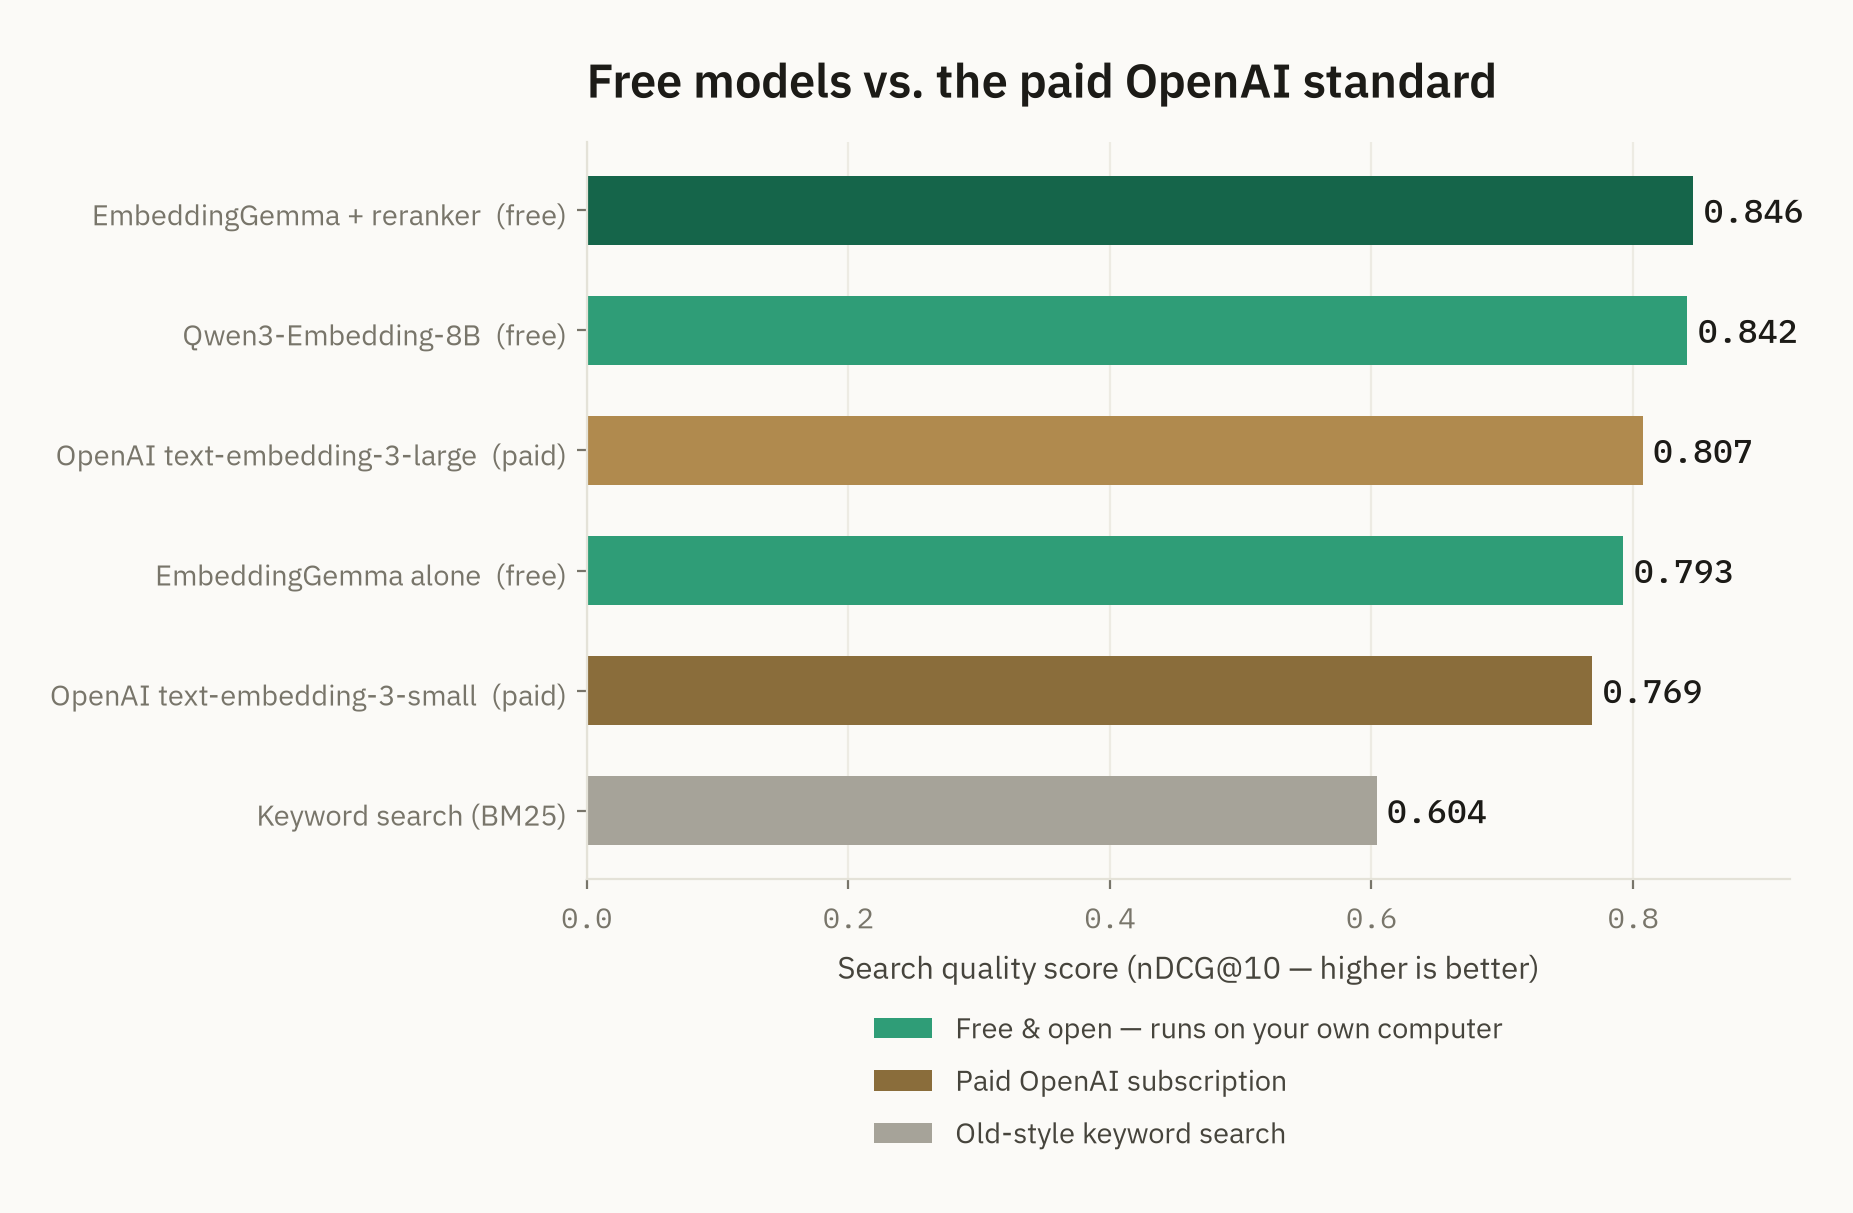
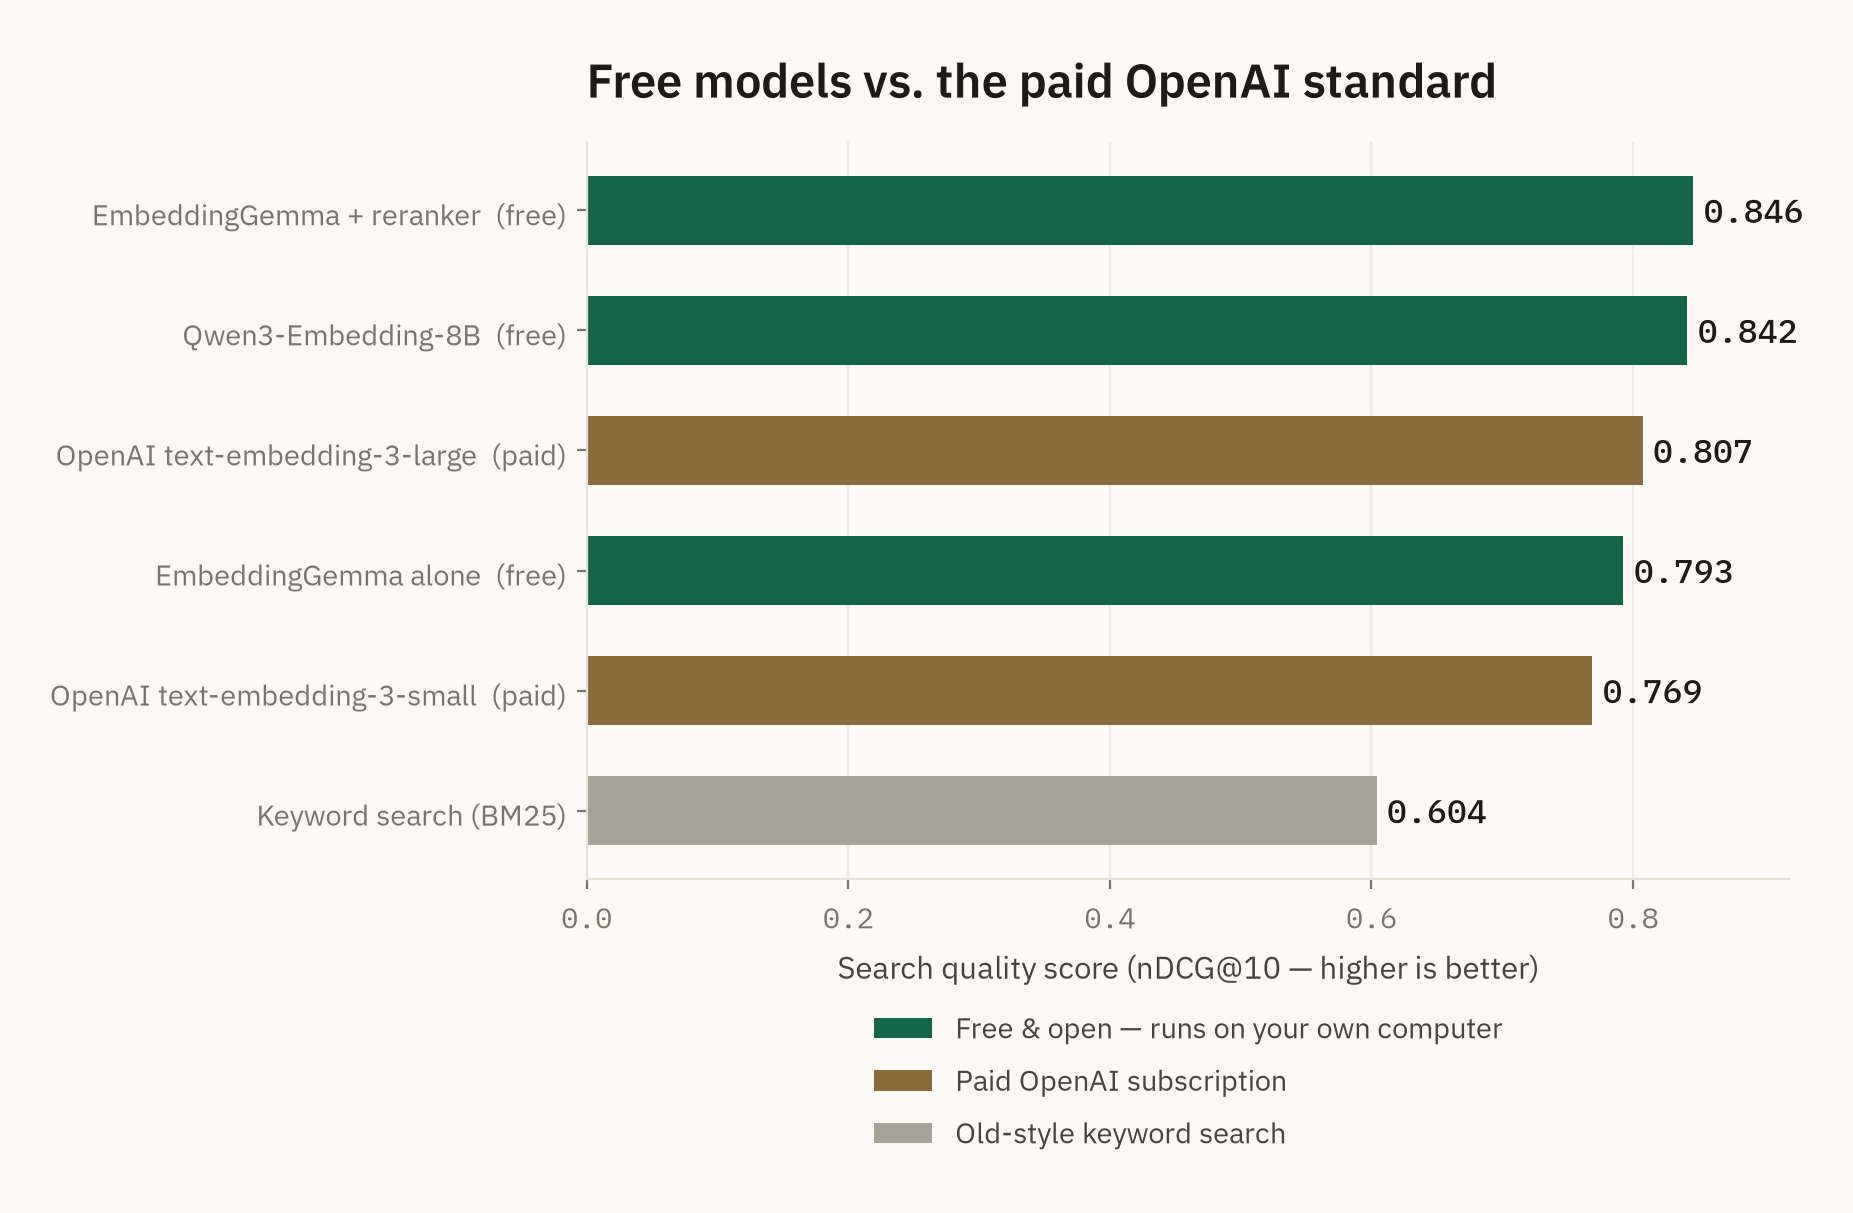
Flatten all charts to single solid colors per category; drop stale amber reference from reranker chart title/alt-text

Changed region(s): [[0.3076, 0.3355, 0.8921, 0.5185], [0.3076, 0.244, 0.9228, 0.305], [0.4614, 0.8236, 0.5229, 0.8541]]

diff --git a/index.html b/index.html
@@ -224,7 +224,7 @@
       <div style="margin-top:56px; display:grid; grid-template-columns:1fr 1fr; gap:24px;">
         <div>
           <div style="background:#FBFAF7; border-radius:10px; padding:16px 18px 6px; box-shadow:0 1px 2px rgba(0,0,0,0.2);">
-            <img src="assets/reranker-effect.png" alt="Dumbbell chart showing each embedding model's search quality alone versus with its best reranker. Weak free models like MiniLM-L6 and MPNet-base gain the most (open circle to filled circle spans far apart). The strongest free model, Qwen3-Embedding-8B, barely moves. Both paid OpenAI models are shown in amber and also gain substantially from reranking." style="width:100%; height:auto; display:block; border-radius:4px;">
+            <img src="assets/reranker-effect.png" alt="Dumbbell chart showing each embedding model's search quality alone versus with its best reranker. Weak free models like MiniLM-L6 and MPNet-base gain the most (open circle to filled circle spans far apart). The strongest free model, Qwen3-Embedding-8B, barely moves. Both paid OpenAI models, marked (paid), also gain substantially from reranking." style="width:100%; height:auto; display:block; border-radius:4px;">
           </div>
           <p style="margin:12px 0 0; font-size:13px; color:#B9B7AC; max-width:60ch;">A reranker rescues weak models — including OpenAI's own — but adds almost nothing once a model is already strong.</p>
         </div>